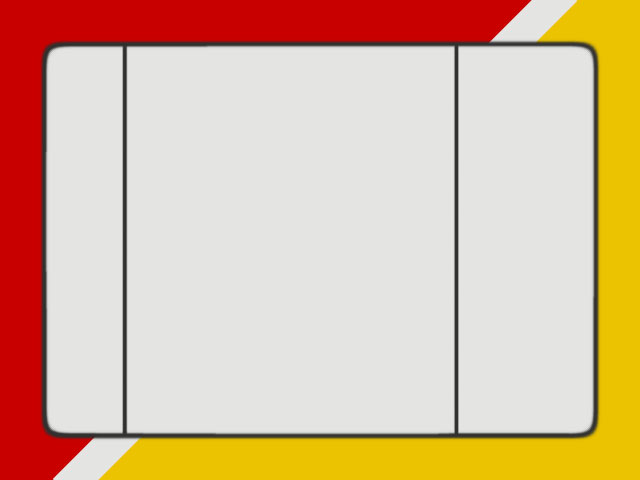
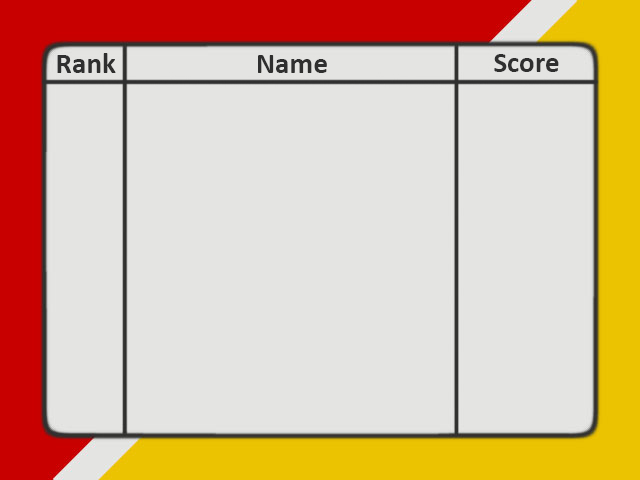
Commit

Changed region(s): [[0.0625, 0.0938, 0.9375, 0.1875]]

diff --git a/leaderboard.js b/leaderboard.js
@@ -18,11 +18,11 @@ leaderBoard.prototype.drawImgBoard = function () {
     for(var i=0; i<leaderboardData.length; i++)
     {
         ctx.textAlign="center"; 
-        ctx.fillText(leaderboardData[i].formattedScoreRank, 60, 80+(i*20));
+        ctx.fillText(leaderboardData[i].formattedScoreRank, 85, 110+(i*30));
         ctx.textAlign="left"; 
-        ctx.fillText(leaderboardData[i].formattedScore, 80, 80+(i*20));
+        ctx.fillText(leaderboardData[i].formattedScore, 150, 110+(i*30));
         ctx.textAlign="center"; 
-        ctx.fillText(leaderboardData[i].player.name.givenName, 100, 80+(i*20));
+        ctx.fillText(leaderboardData[i].player.name.givenName, 525, 110+(i*30));
     }
 }
 
